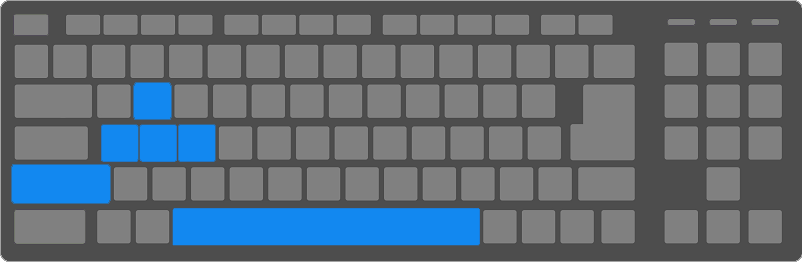
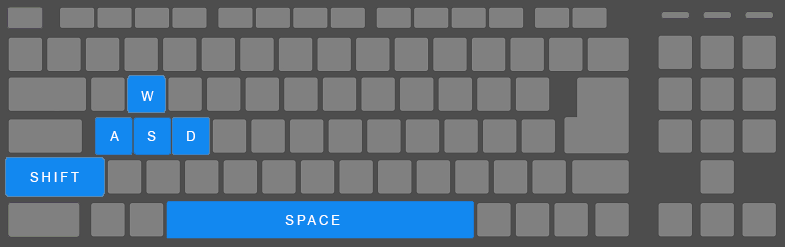
online-game-helicopters-attack-landing-page/feature: some updates

Changed region(s): [[0.0, 0.0, 1.0, 1.0], [0.3669, 0.8502, 0.428, 0.9069]]

diff --git a/index.html b/index.html
@@ -7,33 +7,25 @@
 
     <script src="libs/jquery-3.2.1.min.js"></script>
     <link href="libs/bootstrap-3.3.7-dist/css/bootstrap.min.css" rel="stylesheet" />
-    <script src="libs/bootstrap-3.3.7-dist/js/bootstrap.min.js"></script>
+
+    <link href="https://fonts.googleapis.com/css?family=Asar" rel="stylesheet">
     <link href="styles.css" rel="stylesheet" />
-    <script src="app.js"></script>
 
 </head>
 <body>
+
+    <div id="preloader-page" class="preloader">
+        <div class="loader"></div>
+    </div>
+
+    <nav>
+        <div class="head"></div>
+    </nav>
+
     <div class="container">
-
         <div class="row">
 
-            <div class="col-md-1"></div>
-
-            <div class="col-md-10">
-
-                <div class="head"></div>
-
-            </div>
-
-            <div class="col-md-1"></div>
-
-        </div>
-
-        <div class="row">
-
-            <div class="col-md-1"></div>
-
-            <div class="col-md-10">
+            <div class="col-md-8">
 
                 <div class="dws-wrapper">
 
@@ -49,62 +41,73 @@
 
             </div>
 
-            <div class="col-md-1"></div>
+            <div class="col-md-4">
+                <div class="col-md-12">
+                    <h2>About the game</h2>
+                    <p>
+                        Your goal is to destroy enemy helicopters, which are controlled by other players.
+                        In your arsenal there are bullets and rockets.
+                        Use them to destroy enemy helicopters.
+                        In the game randomly appear first aid kits that will help you if your lifes is running out.
+                        You can also destroy their, so that the enemy player can not use them.
+                    </p>
+
+                </div>
+                <div class="col-md-12">
+                    <div class="col-md-6">
+                        <a class="btn btn-primary btn-lg" target="_blank" href="https://whispering-brook-21659.herokuapp.com/">Try it!</a>
+                    </div>
+                    <div class="col-md-6"><a class="btn btn-primary btn-lg" target="_blank" href="http://slides.com/alexalbe/helicopters-attack#/">Presentation</a></div>
+                </div>
+            </div>
 
         </div>
 
         <div class="row">
 
-            <div class="col-md-1"></div>
 
-            <div class="col-md-10">
+            <div class="col-md-12">
 
-                <h2 class="">About the game</h2>
+                <div class="col-md-3">
+                    <h2>Сontrol</h2>
 
-                <h3>Online game</h3>
-                <p>An online game is a video game that is either partially or primarily played through the Internet or another computer network. Online games are ubiquitous on modern gaming platforms, including PCs, consoles and mobile devices, and span many genres, including first-person shooters, strategy games and massively multiplayer online role-playing games (MMORPG)</p>
+                    <ul>
 
-                <h3>Goal of the game</h3>
-                <p>Your goal is to destroy as many enemy helicopters as possible, which are controlled by other players! In the game randomly appear first aid kits that will help you in battle!</p>
+                        <li>W - move up;</li>
+                        <li>A - move left;</li>
+                        <li>S - move down;</li>
+                        <li>D - move right;</li>
+                        <li>SPACE - open fire with bullets;</li>
+                        <li>SHIFT - open fire with rockets.</li>
 
-                <h3>Сontrol</h3>
-                <p>Press WASD buttons to move on the playing surface. Use SPACE button to opening fire with bullets and SHIFT button to opening fire with rockets.</p>
+                    </ul>
+                </div>
 
-                <div class="img-center">
-                    <img src="img/keyboard.png" />
+                <div class="col-md-9">
+                    <img class="img-center" src="img/keyboard.png" />
                 </div>
 
             </div>
 
-            <div class="col-md-1"></div>
-
         </div>
 
-        <div class="row">
-            <div class="col-md-1"></div>
+        <footer>
+            <div class="row">
+                <div class="col-md-4">
 
-            <div class="col-md-10">
-                <h2 class="">Join the game</h2>
-
-                <div class="pack">
-                    <div class="col-md-3"></div>
-                    <div class="col-md-3">
-                        <button id="LinkButnGame" type="button" class="btn btn-primary btn-lg btns">
-                            Game
-                        </button>
-                    </div>
-                    <div class="col-md-3">
-                        <button id="LinkButnPresentation" type="button" class="btn btn-primary btn-lg btns">Presentation</button>
-                    </div>
-                    <div class="col-md-3"></div>
                 </div>
+                <div class="col-md-4 footer">
+                    <p>Copyright &copy; Alexey Rubanik 2017</p>
+                </div>
+                <div class="col-md-4">
 
+                </div>
             </div>
-
-            <div class="col-md-1"></div>
-        </div>
+        </footer>
 
     </div>
+
+    <script src="js/preloader.js"></script>
 
 </body>
 </html>

diff --git a/styles.css b/styles.css
@@ -3,19 +3,38 @@
     height: 100%;
 }
 
+h1, h2, h3, p, ul {
+    font-family: 'Asar', serif;
+}
+
 .container {
     overflow: hidden;
 }
 
 .head {
     width: 100%;
-    height: 150px;
-    margin-bottom: 50px;
-    background-image: url('img/headImg.png');
+    height: 81px;
+    margin-bottom: 40px;
+    background-image: url('img/headImg1.png');
+    -moz-box-shadow: 1px 3px 15px #7e807e;
+    -webkit-box-shadow: 1px 3px 15px #7e807e;
+    box-shadow: 1px 3px 15px #7e807e;
+}
+
+.row-fix {
+    width: 50%;
+    height: 100%;
+    margin: 0 auto;
+}
+
+.logo {
+    margin: 0;
+    font-size: 45px;
+    height:81px;
 }
 
 .dws-wrapper {
-    max-width: 945px;
+    max-width: 780px;
     margin: 0 auto;
 }
 
@@ -27,7 +46,7 @@ ul.accordion {
 }
 
     ul.accordion li {
-        width: 250px;
+        width: 50px;
         overflow: hidden;
         padding: 1px 1px 0;
         cursor: pointer;
@@ -42,11 +61,11 @@ ul.accordion {
     }
 
     ul.accordion img {
-        width: 700px;
+        width: 650px;
     }
 
     ul.accordion li:hover {
-        width: 700px;
+        width: 650px;
         -moz-box-shadow: 1px 3px 15px #36c5fa;
         -webkit-box-shadow: 1px 3px 15px #36c5fa;
         box-shadow: 1px 3px 15px #36c5fa;
@@ -57,15 +76,15 @@ ul.accordion {
     }
 
     ul.accordion li:nth-child(2) {
-        width: 700px;
+        width: 650px;
     }
 
     ul.accordion:hover li:nth-child(2) {
-        width: 250px;
+        width: 50px;
     }
 
     ul.accordion li:nth-child(2):hover {
-        width: 700px;
+        width: 650px;
     }
 
 h1, h2 {
@@ -73,44 +92,87 @@ h1, h2 {
     margin-bottom: 15px;
 }
 
-h3 {
-    margin-top: 15px;
-    color: black;
-    margin-bottom: 15px;
-}
-
-.active {
-    color: gray;
+h2 {
+    margin-top: 0;
 }
 
 p {
+    font-size: 18px;
     text-indent: 1.5em;
     text-align: justify;
     margin-bottom: 15px;
 }
 
+.btn {
+    width: 145px;
+    background-color: #1288f0;
+}
+
 .img-center {
-    margin-top: 20px;
-    margin-bottom: 15px;
-}
-
-    .img-center img {
-        margin: 0 auto;
-        display: block;
-    }
-
-.btns {
-    width: 250px;
-    height: 50px;
-}
-
-
-.pack {
-    margin-bottom: 15px;
-    overflow: hidden;
-}
-
-.item img {
     margin: 0 auto;
     display: block;
+    -moz-box-shadow: 1px 3px 15px #7e807e;
+    -webkit-box-shadow: 1px 3px 15px #7e807e;
+    box-shadow: 1px 3px 15px #7e807e;
+}
+
+ul {
+    padding-left: 18px;
+}
+
+li {
+    font-size: 18px;
+    list-style-type: none;
+    margin-bottom: 5px;
+}
+
+.footer {
+    margin-top: 40px;
+}
+
+.preloader {
+    position: fixed;
+    left: 0;
+    top: 0;
+    width: 100%;
+    height: 100%;
+    background: white;
+    z-index: 10;
+    transition: 1s all;
+    opacity: 1;
+    visibility: visible;
+}
+
+.loader {
+    width: 75px;
+    height: 75px;
+    border: 10px solid black;
+    border-radius: 50%;
+    border-top-color: #1060f0;
+    position: absolute;
+    left: 50%;
+    top: 50%;
+    transform: translate(-50%, -50%);
+    animation: 1s spin infinite linear;
+}
+
+.done {
+    opacity: 0;
+    visibility: hidden;
+}
+
+@keyframes spin {
+    from {
+        transform: translate(-50%, -50%) rotate(0deg);
+    }
+
+    to {
+        transform: translate(-50%, -50%) rotate(360deg);
+    }
+}
+
+@-moz-keyframes spin {
+}
+
+@-webkit-keyframes spin {
 }

diff --git a/js/preloader.js b/js/preloader.js
@@ -1,0 +1,13 @@
+document.body.onload = () => {
+
+    setTimeout(() => {
+
+        let preloader = document.getElementById('preloader-page');
+
+        if (!preloader.classList.contains('done')) {
+            preloader.classList.add('done');
+        }
+
+    }, 2500);
+
+};
